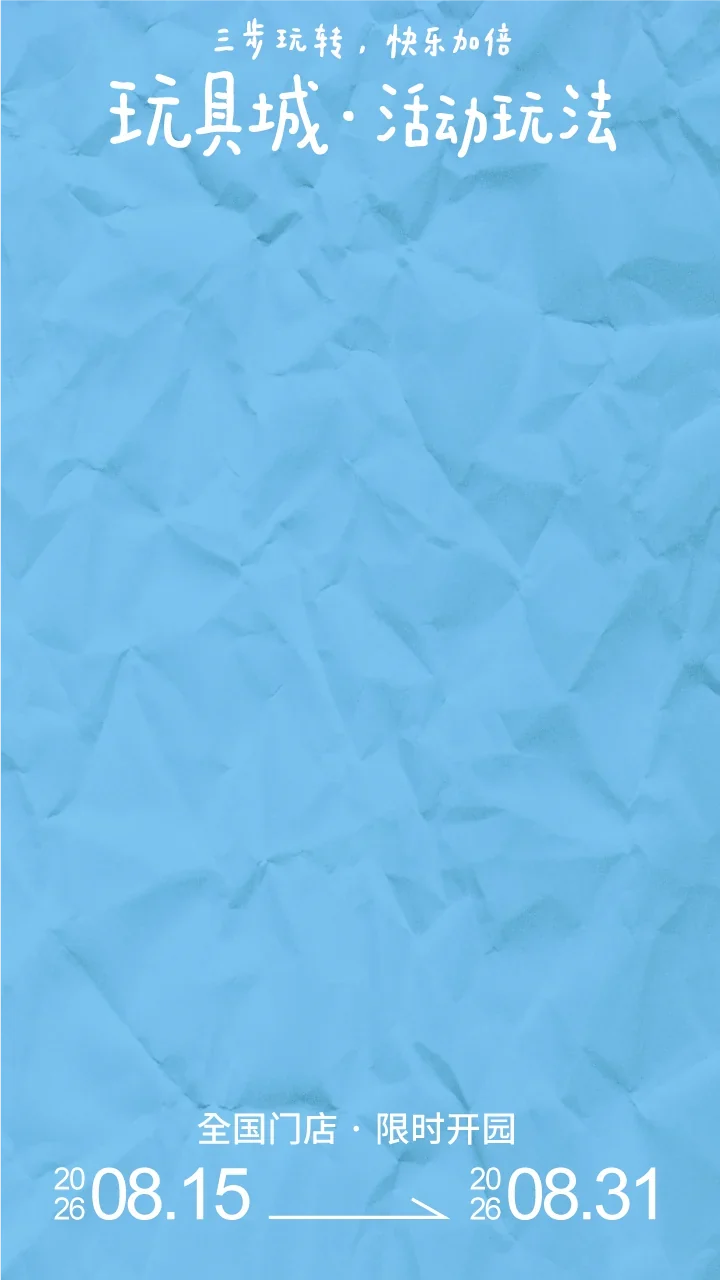
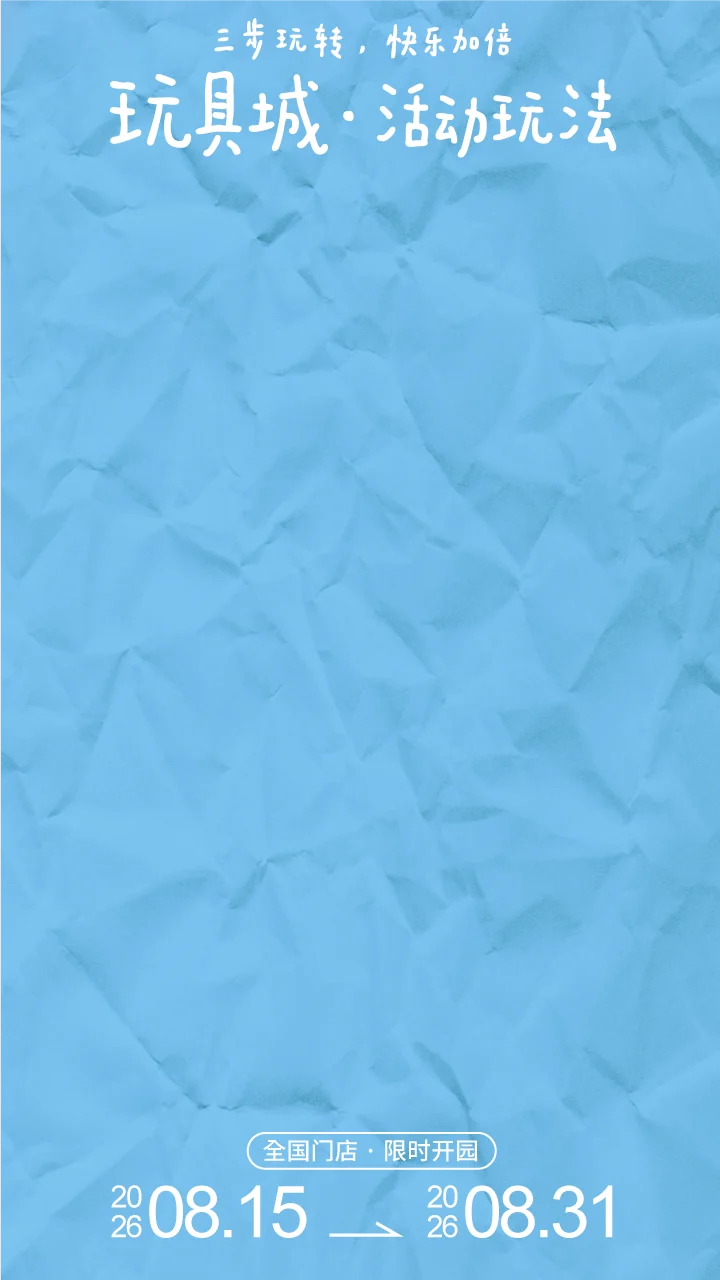
二屏底图更换为底色2并去掉轮播提示文字

Changed region(s): [[0.0611, 0.8438, 0.9167, 0.9688]]

diff --git a/index.html b/index.html
@@ -43,11 +43,6 @@
   .nav:active { background: rgba(255,255,255,.4); }
   .nav.prev { left: 3%; }
   .nav.next { right: 3%; }
-  .hint {
-    position: absolute; left: 0; right: 0; top: 83%;
-    text-align: center; color: #fff; font-size: 13px; letter-spacing: 1px;
-    opacity: .9; text-shadow: 0 1px 2px rgba(0,0,0,.15);
-  }
 </style>
 </head>
 <body>
@@ -66,7 +61,6 @@
     </div>
     <button class="nav prev" id="prev" aria-label="上一个">‹</button>
     <button class="nav next" id="next" aria-label="下一个">›</button>
-    <div class="hint">← 左右滑动查看 →</div>
   </section>
 </div>
 <script>
